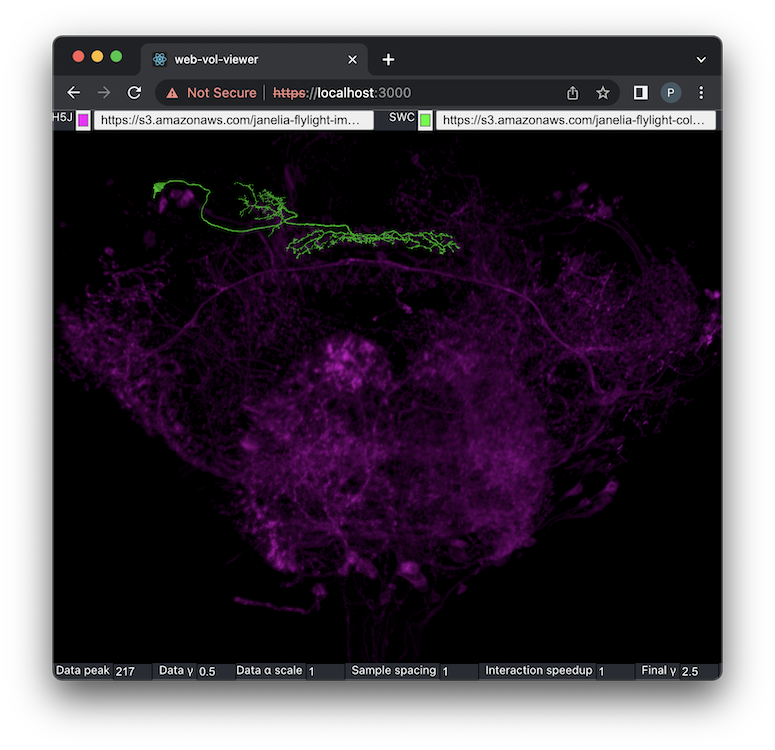
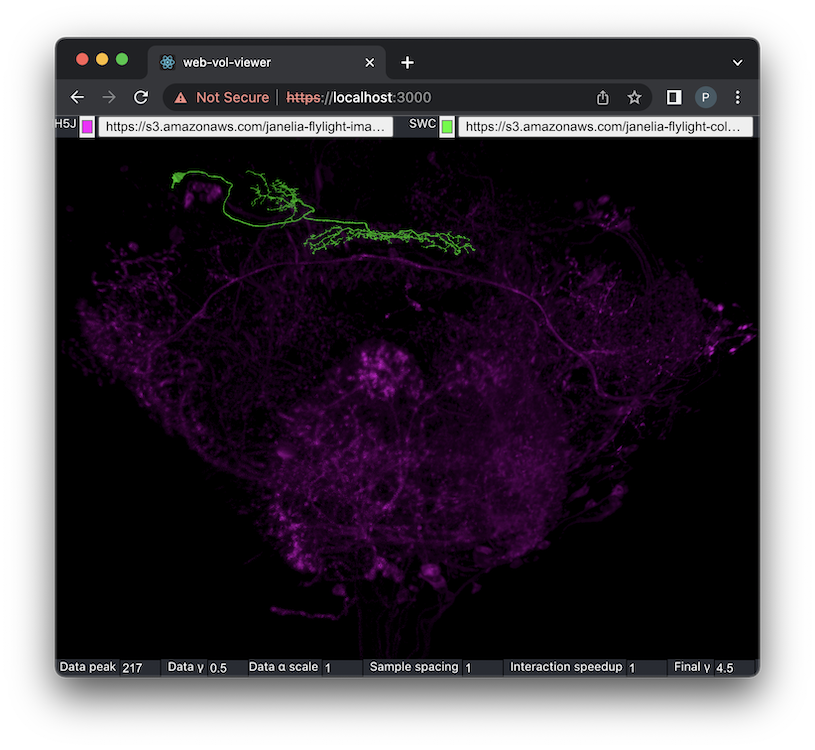
Adds premultiplied alpha in the transfer function.

diff --git a/src/TransferFunctions.js b/src/TransferFunctions.js
@@ -22,10 +22,12 @@ export function makeFluoTransferTex(alpha0, peak, dataGamma, alpha1, colorStr)
     alpha += yGamma * (255 - alpha);
     alpha = Math.round(alpha);
     alpha = Math.max(0, Math.min(alpha, 255));
-    data[4 * i] = color.r ;
-    data[4 * i + 1] = color.g;
-    data[4 * i + 2] = color.b;
-    data[4 * i + 3] = alpha;
+
+   const preMultAlpha = alpha / 255.0;
+   data[4 * i]     = color.r * preMultAlpha;
+   data[4 * i + 1] = color.g * preMultAlpha;
+   data[4 * i + 2] = color.b * preMultAlpha;
+   data[4 * i + 3] = alpha;
   }
 
   const transferTexture = new THREE.DataTexture(data, width, height, THREE.RGBAFormat); 

diff --git a/src/Vol3dViewer.jsx b/src/Vol3dViewer.jsx
@@ -471,7 +471,7 @@ Vol3dViewer.defaultProps = {
   useVolumeMirrorX: false,
   alphaScale: 1.0,
   dtScale: 1.0,
-  finalGamma: 2.5,
+  finalGamma: 4.5,
   interactionSpeedup: 1,
   cameraPosition: [0, 0, -2],
   cameraTarget: [0, 0, 0],

diff --git a/README.md b/README.md
@@ -127,7 +127,7 @@ These optional props are:
 * `alphaScale` (default: 1): a lower value decreases the opacity ($\alpha$) at each sample when ray casting
 * `dtScale` (default: 1): a higher value increases performance at the cost of quality, by increasing the step size when ray casting (and thus decreasing the number of samples)
 * `interactionSpeedup` (default: 1): a higher value increases interactivity at the cost of quality, by reducing the rendering resolution during interactive camera manipulation; this setting should be needed only with weak graphics cards and large data sets
-* `finalGamma` (default: 2.5): a higher value brings out more of that faint details in the rendering; see the [section on transfer functions](#transfer-functions)
+* `finalGamma` (default: 4.5): a higher value brings out more of that faint details in the rendering; see the [section on transfer functions](#transfer-functions)
 * `cameraPosition` (default: `[0, 0, -2]`): the initial position of the camera, relative to the box representing the volume (which is centered at the origin, scaled so its longest dimension goes from -0.5 to 0.5)
 * `cameraTarget` (default: `[0, 0, 0]`): the initial point at which the camera is looking
 * `cameraUp` (default: `[0, -1, 0]`): the initial "up" direction for the camera
@@ -156,17 +156,17 @@ The basic color for all data values is `colorStr` (e.g., `'#ff00ff` for the most
 
 After the transfer function is applied to colors that are accumulated during ray casting, a `finalGamma` is applied to the accumulated color: `c ** (1.0 / finalGamma)` (see the `pow()` call at the end of `fragmentShaderVolume` in `src/Shaders.js`, and note again that the color must be normalized to have components between 0 and 1).  It may seem counterintuitive to reduce the visibility of low data values with the `dataGamma` only to increase their visibility with the `finalGamma`, but this approach works well for fluorescence microscopy, where significant features emit more light and have higher data values.  The `dataGamma` prevents low data values from overwhelming small, significant features during the ray casting, while the `finalGamma` prevents the loss of areas with _only_ low data values, which can be important for visual context.
 
-This effect is visible in the following two images, of sample [VT049371](https://s3.amazonaws.com/janelia-flylight-imagery/Gen1+MCFO/VT049371/VT049371-20171013_61_B1-f-40x-central-GAL4-JRC2018_Unisex_20x_HR-aligned_stack.h5j) and body [5901203987](https://s3.amazonaws.com/janelia-flylight-color-depth/SWC/FlyEM_Hemibrain_v1.2.1/5901203987.swc) from the [FlyLight Generation 1 MCFO collection](https://gen1mcfo.janelia.org/cgi-bin/gen1mcfo.cgi) (citation: https://dx.doi.org/10.1016/j.celrep.2012.09.011).  With the default `finalGamma` of 2.5, not much of the low-value context is visible:
+This effect is visible in the following two images, of sample [VT049371](https://s3.amazonaws.com/janelia-flylight-imagery/Gen1+MCFO/VT049371/VT049371-20171013_61_B1-f-40x-central-GAL4-JRC2018_Unisex_20x_HR-aligned_stack.h5j) and body [5901203987](https://s3.amazonaws.com/janelia-flylight-color-depth/SWC/FlyEM_Hemibrain_v1.2.1/5901203987.swc) from the [FlyLight Generation 1 MCFO collection](https://gen1mcfo.janelia.org/cgi-bin/gen1mcfo.cgi) (citation: https://dx.doi.org/10.1016/j.celrep.2012.09.011).  With the default `finalGamma` of 4.5, not much of the low-value context is visible:
 <div>
 <p align="center">
-<img src="VT049371-20171013_61_B1-f-40x-central-GAL4-JRC2018_Unisex_20x_HR-aligned_stack-Channel_1-gamma25.png">
+<img src="VT049371-20171013_61_B1-f-40x-central-GAL4-JRC2018_Unisex_20x_HR-aligned_stack-Channel_1-gamma_default.png">
 </p>
 <div>
 
-Increasing the `finalGamma` to 3.5 reveals more context without overwhelming the significant features visible in the previous image:
+Increasing the `finalGamma` to 6 reveals more context without overwhelming the significant features visible in the previous image:
 <div>
 <p align="center">
-<img src="VT049371-20171013_61_B1-f-40x-central-GAL4-JRC2018_Unisex_20x_HR-aligned_stack-Channel_1-gamma35.png">
+<img src="VT049371-20171013_61_B1-f-40x-central-GAL4-JRC2018_Unisex_20x_HR-aligned_stack-Channel_1-gamma_raised.png">
 </p>
 <div>
 
